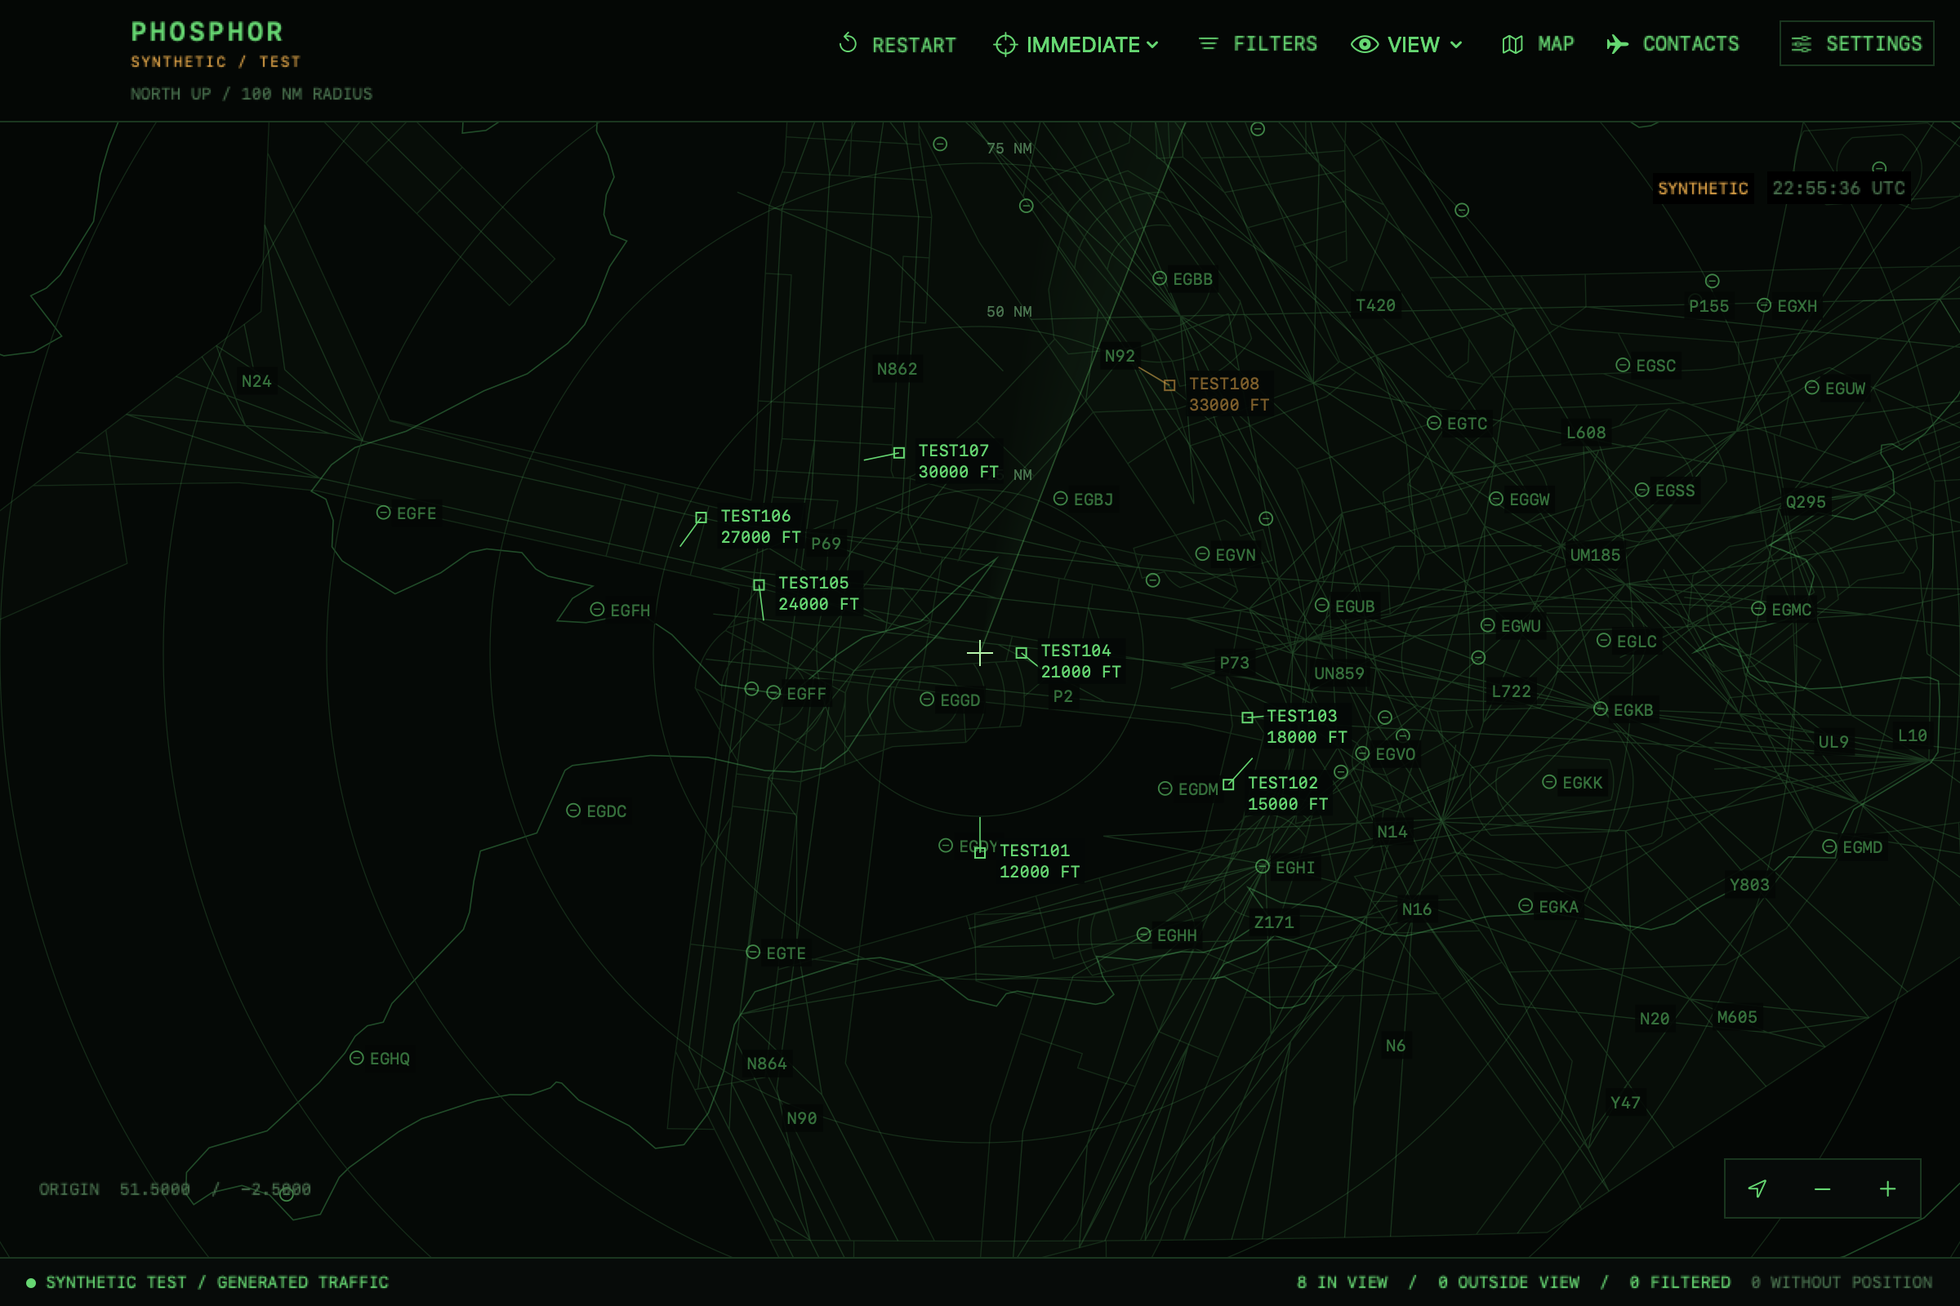
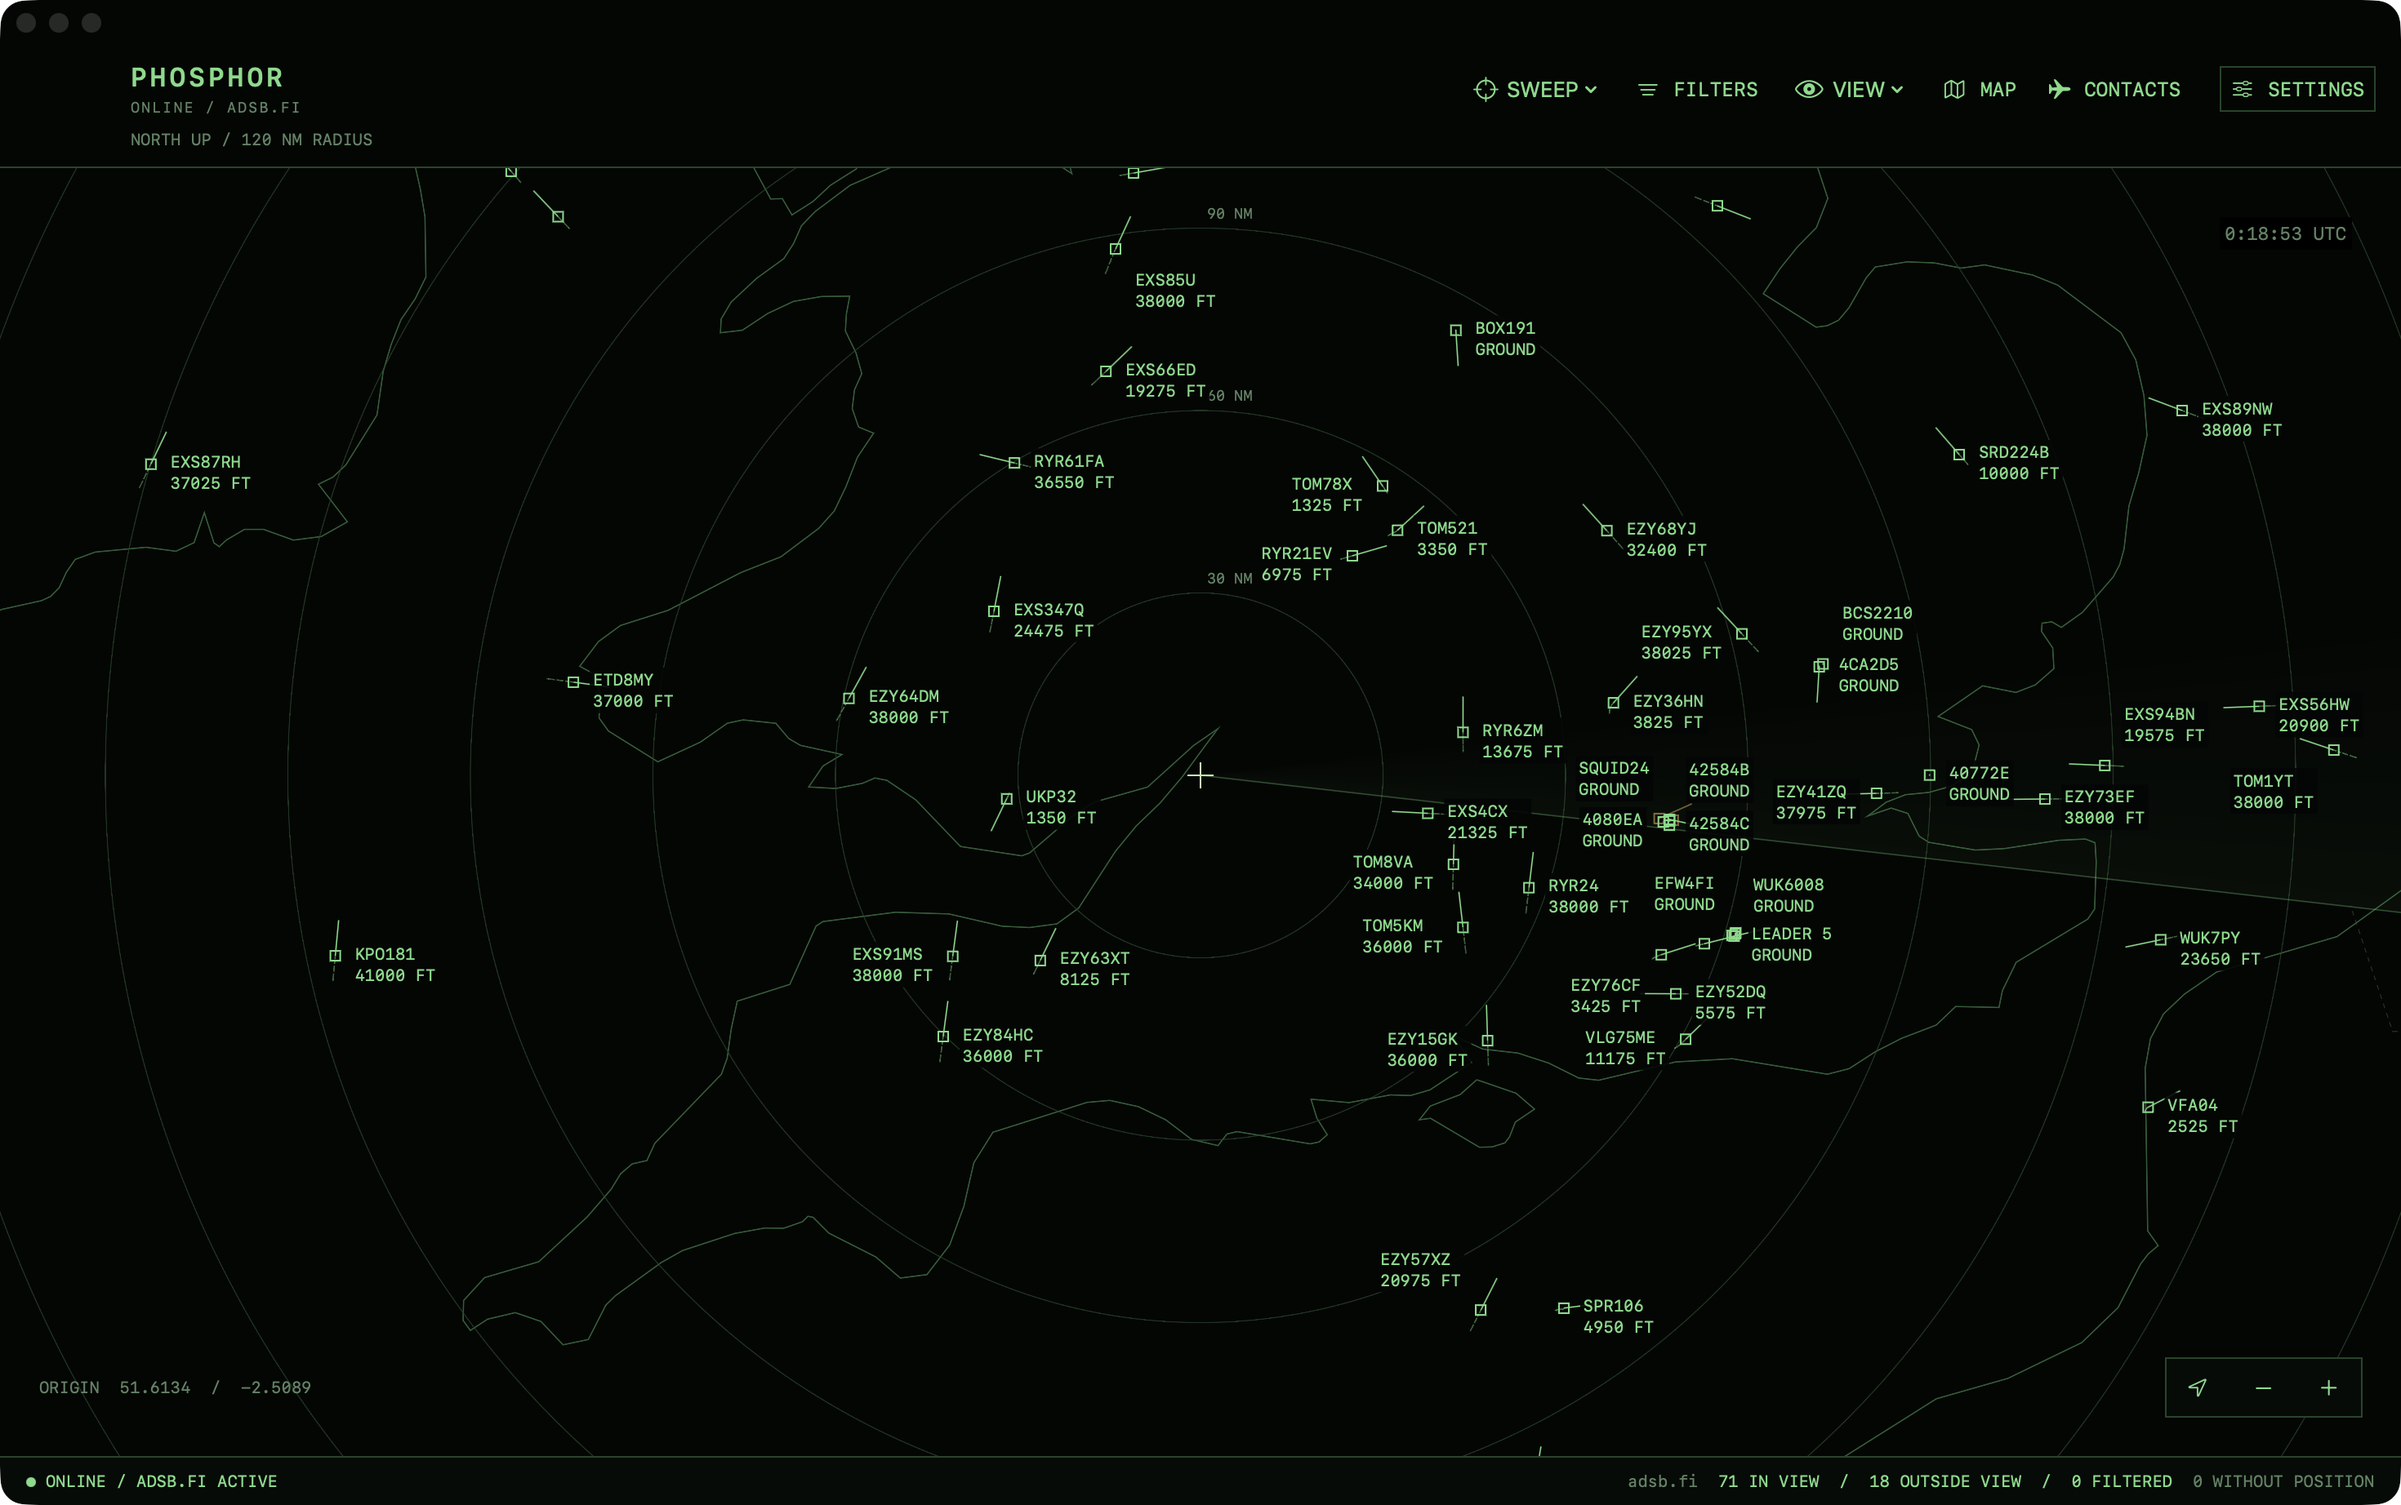
Refresh README screenshot with live traffic and map overlays off

diff --git a/README.md b/README.md
@@ -4,7 +4,7 @@ A native macOS aircraft viewer with a vintage military radar display, inspired b
 Track aircraft from an RTL-SDR receiver, [adsb.fi](https://adsb.fi), or an offline synthetic demo.
 Explore aircraft details, trails, and bundled UK airways, airspace, and airports.
 
-![Phosphor showing aircraft over southern England](assets/demo/phosphor-preview.png)
+![Phosphor showing live aircraft over southern England with map overlays off](assets/demo/phosphor-preview.png)
 
 [Watch the original 15-second demo: South UK to London](assets/demo/adsb-radar.mp4).
 This historical recording shows the former ADSB Radar branding.
